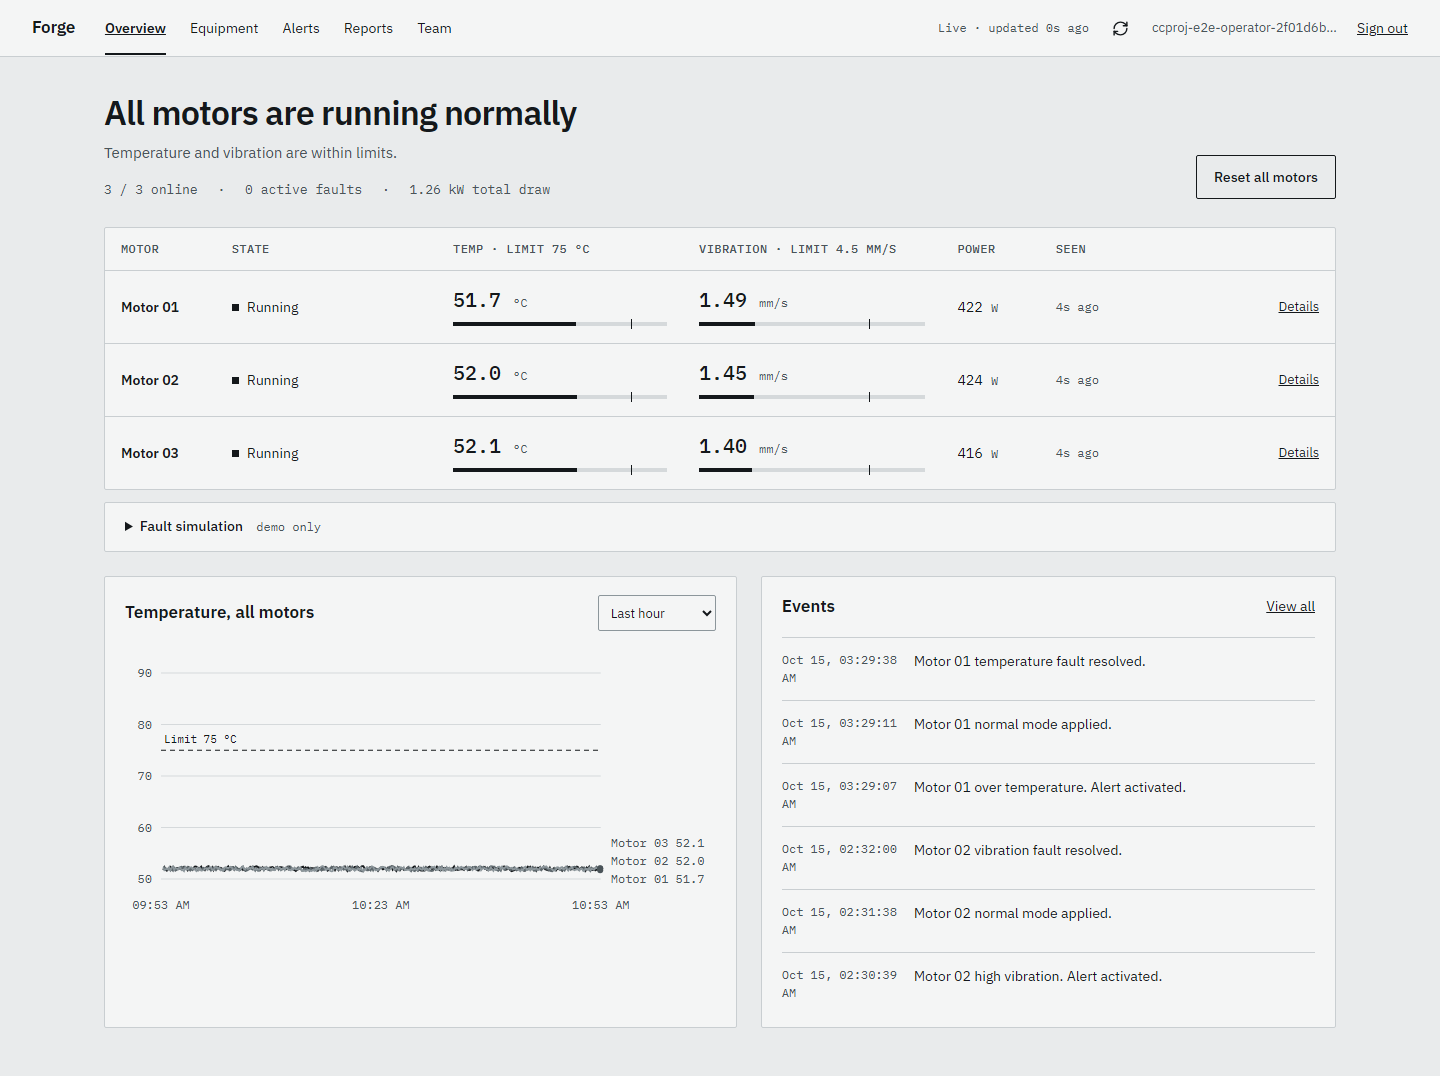
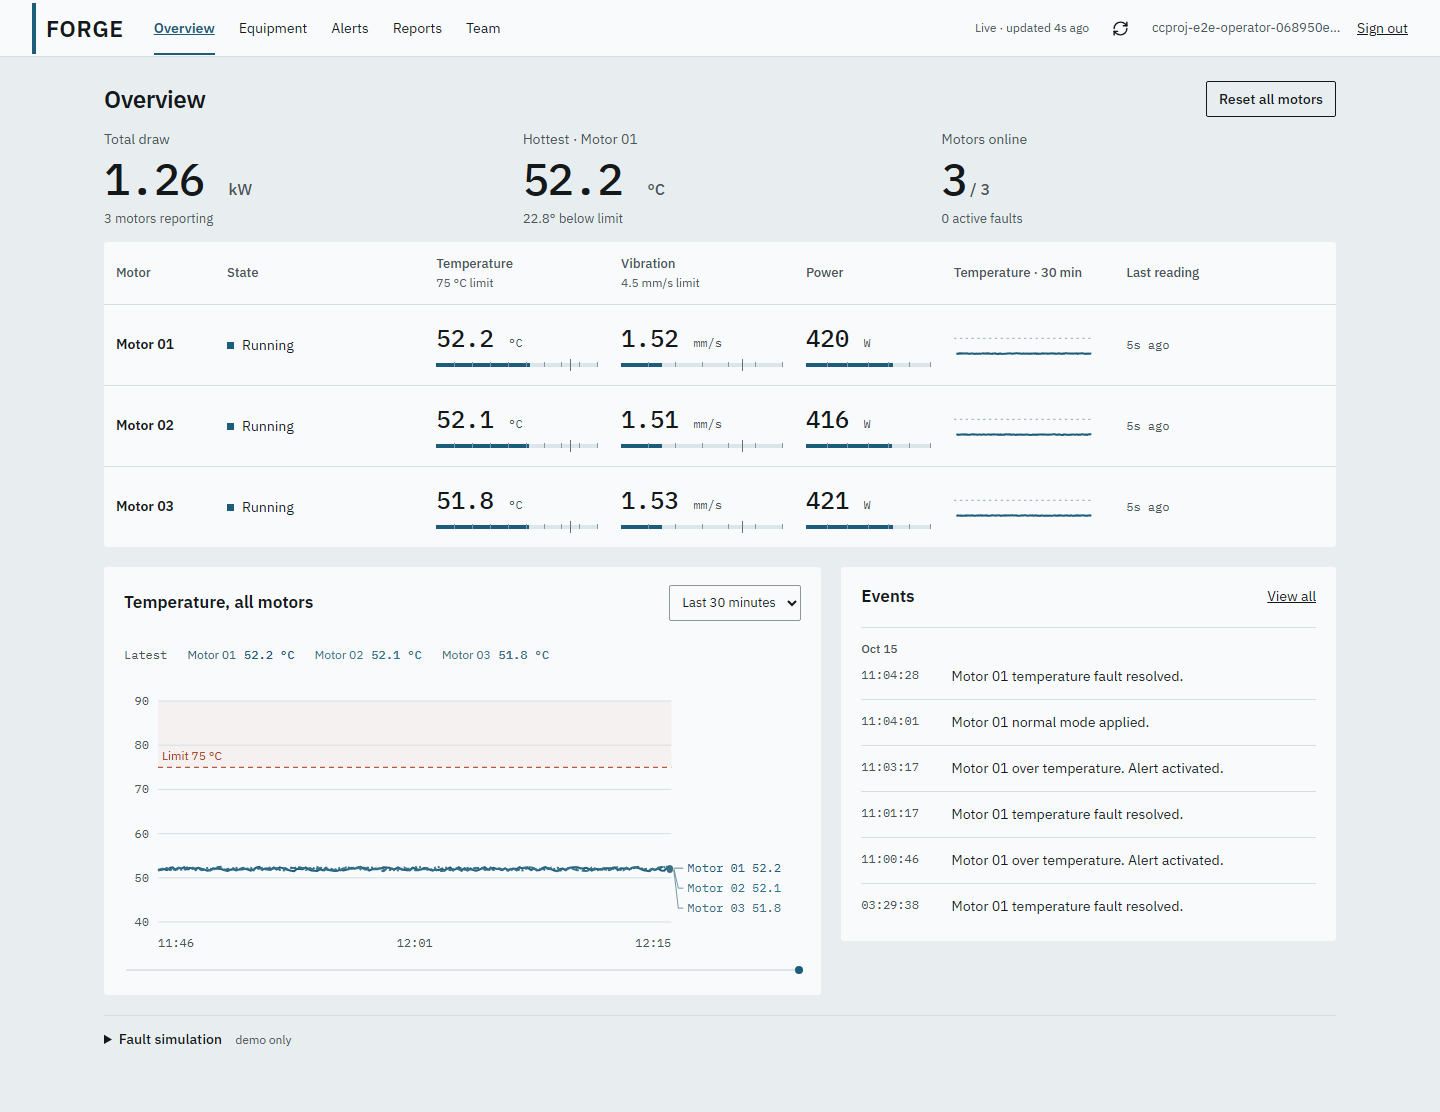
docs: verify and record deployed instrument UI feedback pass

diff --git a/PROGRESS.md b/PROGRESS.md
@@ -61,3 +61,11 @@ All 68 local tests passed, including both email rules, Decimal precision at a sm
 The real deployed notification scenario passed in 139.98 seconds including setup, motor recovery and cleanup. A real EC2 overheat activated a stored fault; the scheduled notifier published a readable message captured through a temporary SQS subscription. Its SNS message ID matched the durable intent and an explicit retry published zero. Motor 01 recovered; a final read verified all three motors online, running, with normal acknowledged controls and no active rules. Temporary capture queues/subscriptions and disposable accounts were removed; the original confirmed email subscription remains. The test proves the published subject/body and SNS acceptance; new-format inbox delivery was not independently observed.
 
 Two release-tool issues found during verification were fixed and committed: downloads now use an isolated wheel directory to prevent mixed SDK versions in a package, and the CLI wrapper explicitly uses UTF-8 for output and input files. The initial unexecuted change set containing mixed cached wheels was discarded. The first live notification attempt published successfully but its local Windows reader failed on the degree symbol; it restored the motor and cleaned up. That failure is retained in docs/readable-email-live-initial.xml; the successful rerun is docs/readable-email-live.xml. These were separate fault episodes and can produce two test emails. docs/readable-email-release.json records deployment, validation, package hashes and final health. All AWS CLI calls were appended to AWS_COMMANDS.txt. The project remains online.
+
+## Instrument UI feedback pass - 15 October 2026
+
+Applied the supplied Claude feedback as a broad usability pass. The latest user instruction overrides the earlier fault-headline design: Overview is now a fixed 24px heading with no explanatory subtitle. A compact measurement strip shows known total draw, hottest motor/margin and online count. Blue encodes measurements and active navigation; orange marks fault conditions. Borders and mono labels were reduced, numerals enlarged, and the wordmark strengthened. Reading ages tick between polls; real recent-history sparklines, update highlights, number/bar transitions and arrival/status indicators respect reduced motion. Pending commands show inline requested/applying feedback; reset-all requires a cancellable confirmation.
+
+The comparison chart defaults to 30 minutes and fits available history, with shared pointer/keyboard inspection, no invented values across missing samples, collision leaders, a shaded limit region and event markers linked to the event list. Events use day groups and 24-hour timestamps. Mobile motor cards show every metric at 320/390px; navigation remains reachable. Equipment detail has a single title, readouts, visible metadata, recent alerts and stacked charts sharing a cursor/time axis. Temperature uses a stable range with 10-degree ticks, power starts at zero, and endpoints have space. Alerts now include a 24-hour episode timeline, including older ongoing episodes, plus rule limits and confirmed/pending counts. Reports have Today/Last 7 days shortcuts and username-scoped session history; opening an existing result does not start another query. A 30-day query preset was intentionally excluded because the existing maximum is seven dates within the last 30 days.
+
+All 35 controlled Playwright scenarios passed in 43.3 seconds, including eight new interaction/responsiveness/accessibility scenarios. The production TypeScript/Vite build and Prettier checks passed. The real deployed desktop/mobile Cognito login and chart smoke passed (109.69 seconds including account setup/cleanup); three motors were healthy, viewer restrictions held and no CSP/page errors were observed. CloudFront invalidation completed and all eleven served files matched the build hashes. docs/ui-instruments.json and docs/ui-instruments-live-smoke.xml record the release; docs/ui-instruments/ screenshots use fixtures, while the refreshed root overview/device screenshots use actual AWS data. API behavior, backend/email resources, budget, report bounds, polling acknowledgements and continued operation were preserved. Every AWS CLI command was appended to AWS_COMMANDS.txt. Submission documents remain their earlier snapshot, and the prior initial-account password issue has not been resolved by disposable-account smoke tests.

diff --git a/README.md b/README.md
@@ -29,7 +29,7 @@ The deployed AWS acceptance report is `docs/AWS_ACCEPTANCE.md`: 64 local tests a
 
 The main Markdown handoff is a small set: `PRD.md` for scope, `PROGRESS.md` for the completed state and next work, and `docs/AWS_ACCEPTANCE.md` for results, measurements and limitations. This README supplies build/deployment/operation commands. `docs/API.md` and `docs/SHUTDOWN.md` are the focused frontend contract and later cleanup references; `IMPLEMENTATION_PLAN.md` preserves the original phased plan with the updated implementation boundary.
 
-The React application is in `frontend/`: Cognito hosted PKCE login, motor overview/detail/charts, operator controls and acknowledgements, active/historical alerts, asynchronous reports with charts/tables/CSV, and operator user invitations/role assignment. It handles loading, API errors, expired sessions and stale readings. Viewer access is enforced by the existing backend as well as reflected in the UI. The interface follows the supplied Forge reference: top navigation, a motor table with threshold gauges, an all-motor temperature comparison, timestamped events and collapsed demo controls. Neutral grey surfaces and self-hosted IBM Plex fonts keep faults prominent. Responsive desktop/mobile layouts, keyboard focus and reduced-motion support are included.
+The React application is in `frontend/`: Cognito hosted PKCE login, motor overview/detail/charts, operator controls and acknowledgements, active/historical alerts, asynchronous reports with charts/tables/CSV, and operator user invitations/role assignment. It handles loading, API errors, expired sessions and stale readings. Viewer access is enforced by the existing backend as well as reflected in the UI. The interface uses a compact fixed overview heading, a measurement strip with margin to the temperature limit, live reading ages, per-motor sparklines and threshold gauges. A cool blue measurement color sits alongside orange fault indicators, neutral surfaces and self-hosted IBM Plex fonts. Mobile layouts show every motor metric without sideways table scrolling. Charts support shared hover/keyboard inspection, event markers, visible limits and gaps; detail charts share a time cursor and use stable measurement ranges. Alerts include a 24-hour episode timeline; reset-all requires confirmation. Demo tools remain collapsed. Responsive desktop/mobile layouts, keyboard focus and reduced-motion support are included.
 
 ```powershell
 Push-Location frontend
@@ -56,6 +56,8 @@ $env:CCPROJ_LIVE = '1'
 ```
 
 Local tests exercise the full handler pipeline against Moto, partial failures, archive retries, transactional deduplication, older events, fault episodes, controls, user roles, report limits, and safe command logging. Schema checks use cfn-lint; security checks use the version-controlled CloudFormation Guard rules. These are distinct from live AWS tests.
+
+Reports offer Today and Last 7 days presets within the existing query bounds. Recent report references are scoped to the signed-in username in per-tab session storage; reopening a result retrieves its existing report ID without starting a new query. No tokens are stored with report references.
 
 Frontend browser tests use deterministic API fixtures for errors/expiry/permissions/filters/report outcomes and axe accessibility checks. The separate deployed Playwright suite signs in through real Cognito, loads actual charts, triggers and resolves real motor faults/disconnection, renders all three Athena reports, persists disposable-user role changes and signs out. Its pytest launcher supplies temporary credentials in process memory, suppresses invitations for test accounts and deletes those accounts afterward. Browser traces/videos and login screenshots are disabled. Evidence and screenshots are linked in `docs/AWS_ACCEPTANCE.md`.
 
